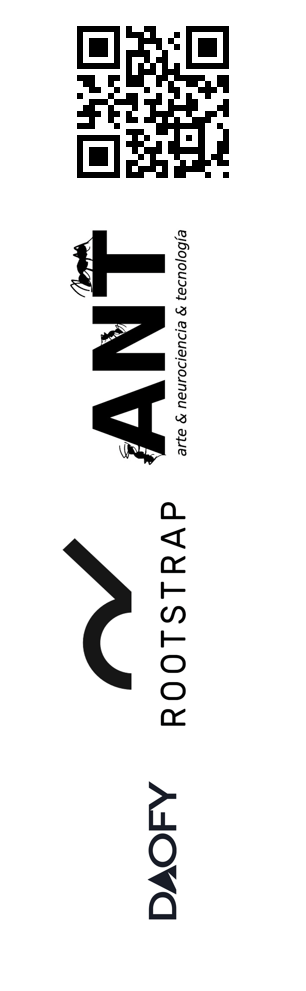
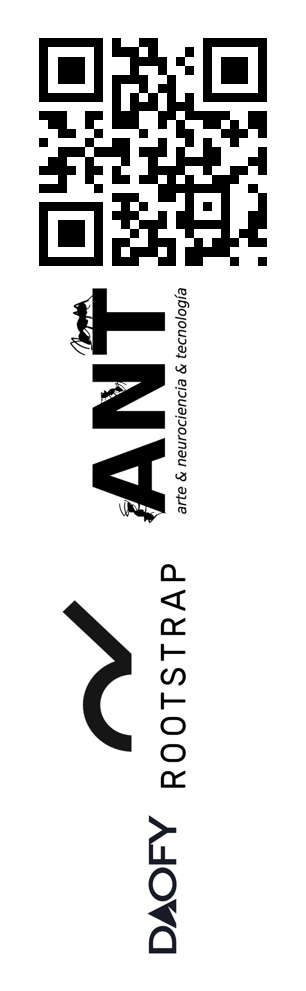
update generate image

Changed region(s): [[0.1176, 0.0, 0.8824, 0.9687], [0.2059, 0.5449, 0.4412, 0.7568]]

diff --git a/generate_image.py b/generate_image.py
@@ -6,7 +6,7 @@ final_size = (306,991)
 im1 = Image.new('RGB', final_size, color = (255,255,255))
 
 im2 = Image.open('qr-ant.png') #330x330 
-im2 = im2.resize((200,200))
+im2 = im2.resize((300,300))
 
 im3 = Image.open('logos/logoANT.png') #996x580
 im3 = im3.resize((249, 146))
@@ -22,10 +22,10 @@ im5 = Image.open('logos/logoDaofy.png') #717x174
 im5 = im5.resize((143, 35))
 im5 = im5.rotate(90, expand=True)
 
-im1.paste(im2, box=(53,2))
-im1.paste(im3, box=(55,222))
-im1.paste(im4, box=(58,490))
-im1.paste(im5, box=(145,780))
+im1.paste(im2, box=(3,2))
+im1.paste(im3, box=(55,280))
+im1.paste(im4, box=(58,552))
+im1.paste(im5, box=(145,812))
 
 im1.save('test.png')
 
